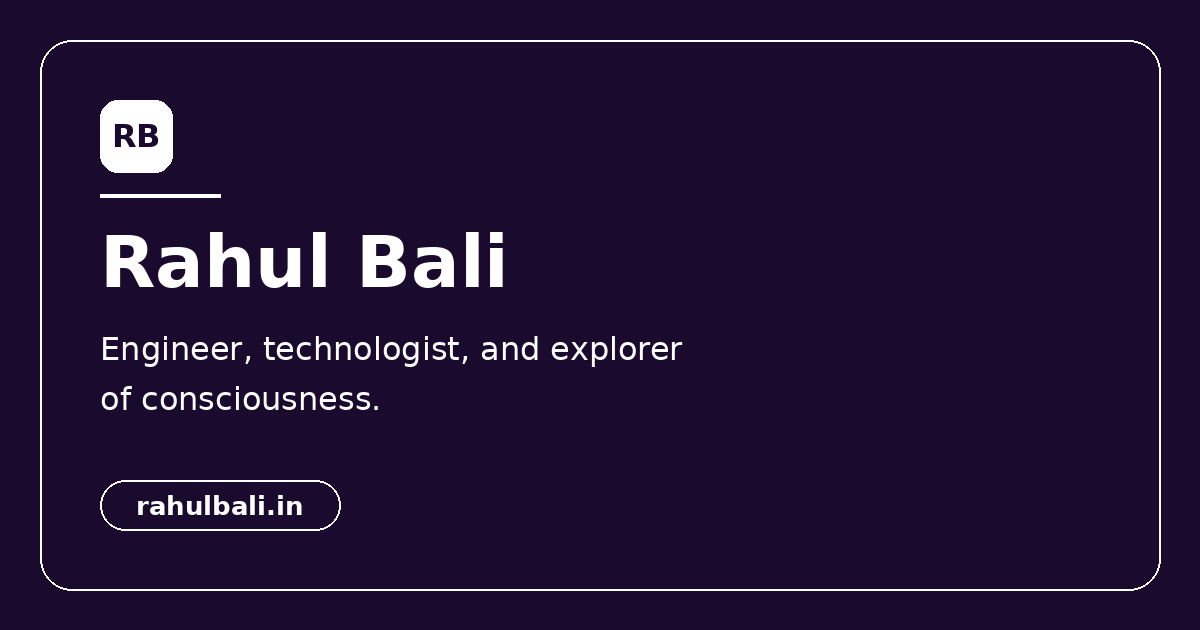
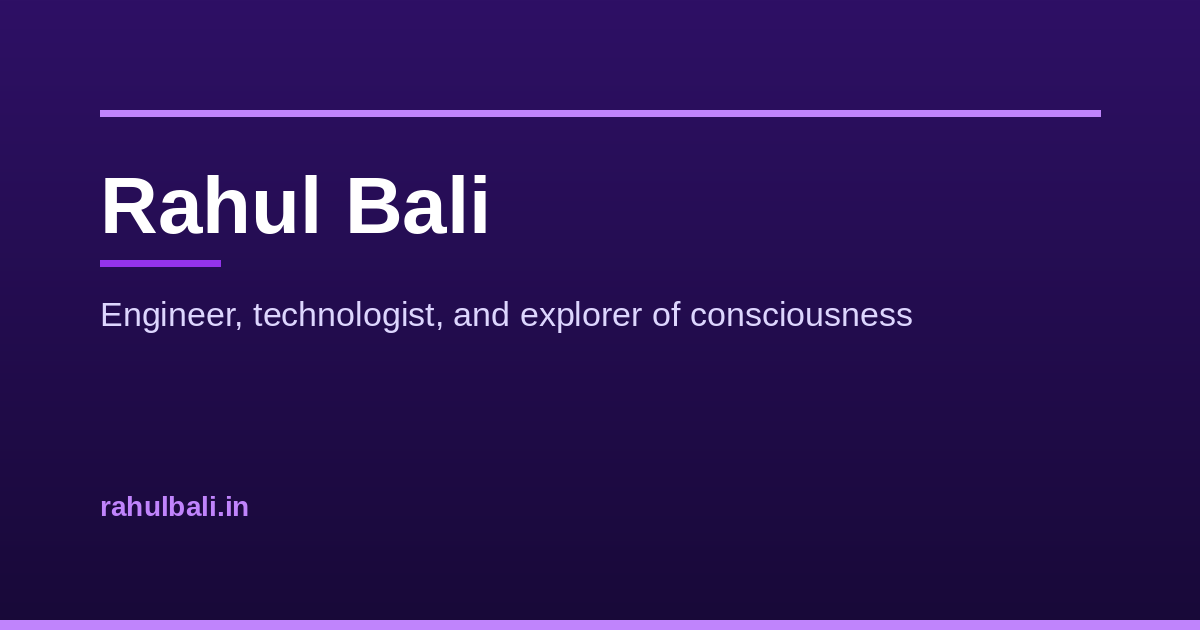
Add custom purple & white social preview cards for major paths

diff --git a/generate_og_images.py b/generate_og_images.py
@@ -1,0 +1,113 @@
+import os
+from PIL import Image, ImageDraw, ImageFont
+
+# Canvas dimensions
+WIDTH = 1200
+HEIGHT = 630
+
+# Colors: Deep Purple and Crisp White Theme
+BG_TOP = (46, 16, 101)       # Deep Rich Purple (#2e1065)
+BG_BOTTOM = (24, 9, 56)      # Darker Purple/Violet
+WHITE = (255, 255, 255)      # Crisp White
+LIGHT_PURPLE = (221, 214, 254)# Light Violet (#ddd6fe)
+ACCENT_VIOLET = (192, 132, 252) # Accent Light Purple (#c084fc)
+ACCENT_LINE = (147, 51, 234) # Purple 600
+
+# Fonts
+FONT_BOLD_PATH = "/usr/share/fonts/truetype/liberation/LiberationSans-Bold.ttf"
+FONT_REGULAR_PATH = "/usr/share/fonts/truetype/liberation/LiberationSans-Regular.ttf"
+
+font_page_title = ImageFont.truetype(FONT_BOLD_PATH, 76)
+font_page_title_large = ImageFont.truetype(FONT_BOLD_PATH, 80)
+font_subtitle = ImageFont.truetype(FONT_REGULAR_PATH, 34)
+font_brand = ImageFont.truetype(FONT_BOLD_PATH, 28)
+
+cards = [
+    {
+        "filename": "og-image.png",
+        "title": "Rahul Bali",
+        "subtitle": "Engineer, technologist, and explorer of consciousness",
+        "is_default": True
+    },
+    {
+        "filename": "og-about.png",
+        "title": "About",
+        "subtitle": "Rahul Bali"
+    },
+    {
+        "filename": "og-writings.png",
+        "title": "Writings",
+        "subtitle": "Rahul Bali"
+    },
+    {
+        "filename": "og-projects.png",
+        "title": "Projects",
+        "subtitle": "Rahul Bali"
+    },
+    {
+        "filename": "og-engineering-blogs.png",
+        "title": "Engineering Blogs",
+        "subtitle": "Rahul Bali"
+    },
+    {
+        "filename": "og-careers.png",
+        "title": "Careers",
+        "subtitle": "Rahul Bali"
+    },
+    {
+        "filename": "og-resume.png",
+        "title": "Resume",
+        "subtitle": "Rahul Bali"
+    },
+    {
+        "filename": "og-contact.png",
+        "title": "Contact",
+        "subtitle": "Rahul Bali"
+    }
+]
+
+output_dir = "assets/images"
+os.makedirs(output_dir, exist_ok=True)
+
+for card in cards:
+    img = Image.new("RGB", (WIDTH, HEIGHT))
+    draw = ImageDraw.Draw(img)
+
+    # Create rich deep purple gradient background
+    for y in range(HEIGHT):
+        r = int(BG_TOP[0] + (BG_BOTTOM[0] - BG_TOP[0]) * (y / HEIGHT))
+        g = int(BG_TOP[1] + (BG_BOTTOM[1] - BG_TOP[1]) * (y / HEIGHT))
+        b = int(BG_TOP[2] + (BG_BOTTOM[2] - BG_TOP[2]) * (y / HEIGHT))
+        draw.line([(0, y), (WIDTH, y)], fill=(r, g, b))
+
+    # Top decorative horizontal accent line
+    draw.rectangle([100, 110, WIDTH - 100, 116], fill=ACCENT_VIOLET)
+
+    # Layout Rearrangement:
+    # 1. Page Name / Title at the Top
+    content_x = 100
+    title_y = 160
+
+    title_font = font_page_title_large if card.get("is_default") else font_page_title
+    draw.text((content_x, title_y), card["title"], font=title_font, fill=WHITE)
+
+    # Divider line under title
+    divider_y = title_y + (100 if card.get("is_default") else 95)
+    draw.rectangle([content_x, divider_y, content_x + 120, divider_y + 6], fill=ACCENT_LINE)
+
+    # 2. Subtitle / Tagline below divider line
+    sub_y = divider_y + 35
+    draw.text((content_x, sub_y), card["subtitle"], font=font_subtitle, fill=LIGHT_PURPLE)
+
+    # 3. Domain Branding at the bottom
+    domain_y = HEIGHT - 140
+    draw.text((content_x, domain_y), "rahulbali.in", font=font_brand, fill=ACCENT_VIOLET)
+
+    # Bottom border accent line
+    draw.rectangle([0, HEIGHT - 10, WIDTH, HEIGHT], fill=ACCENT_VIOLET)
+
+    out_path = os.path.join(output_dir, card["filename"])
+    img.save(out_path, "PNG")
+    print(f"Redesigned {out_path} (Purple & White)")
+
+print("All social preview cards redesigned with purple and white successfully!")

diff --git a/engineering-blogs.md b/engineering-blogs.md
@@ -2,6 +2,7 @@
 layout: page
 title: Engineering Blogs & Videos
 description: "A curated list of popular engineering blogs, technical channels, and system design resources."
+image: /assets/images/og-engineering-blogs.png
 ---
 
 <ul>

diff --git a/careers.md b/careers.md
@@ -3,6 +3,7 @@ layout: page
 title: Careers
 author: Rahul Bali
 description: "A comprehensive list of career opportunities at various companies."
+image: /assets/images/og-careers.png
 ---
 
 <ul>

diff --git a/contact.md b/contact.md
@@ -1,6 +1,7 @@
 ---
 layout: page
 title: Contact
+image: /assets/images/og-contact.png
 ---
 
 [Telegram](https://t.me/balirahul){:target="_blank" rel="noopener noreferrer"}

diff --git a/projects.md b/projects.md
@@ -1,6 +1,7 @@
 ---
 layout: page
 title: Projects
+image: /assets/images/og-projects.png
 ---
 
 A collection of applications, tools, and experiments I've built.

diff --git a/writings.md b/writings.md
@@ -1,6 +1,7 @@
 ---
 layout: page
 title: Writings
+image: /assets/images/og-writings.png
 ---
 
 # Writings

diff --git a/about.md b/about.md
@@ -1,6 +1,7 @@
 ---
 layout: page
 title: About
+image: /assets/images/og-about.png
 ---
 
 ## Rahul Bali

diff --git a/resume.md b/resume.md
@@ -1,6 +1,7 @@
 ---
 layout: page
 title: Resume
+image: /assets/images/og-resume.png
 ---
 
 <style>

diff --git a/index.md b/index.md
@@ -1,4 +1,5 @@
 ---
 layout: home
+image: /assets/images/og-image.png
 ---
 
